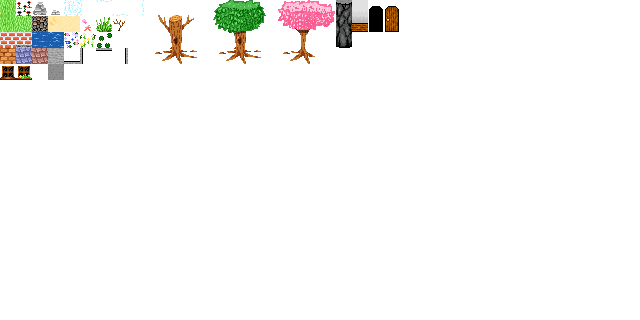
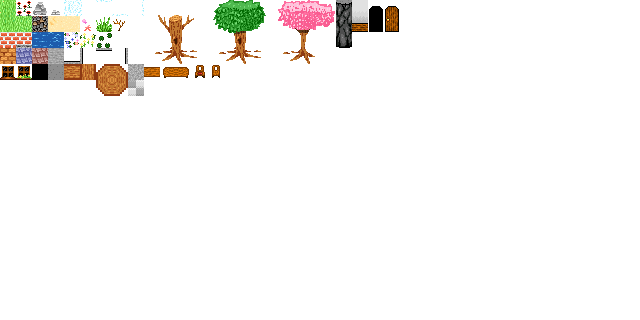
Added more sprites and a starting house. Still can't get the player in the map.

Changed region(s): [[0.0312, 0.1875, 0.3438, 0.3125]]

diff --git a/assets/maps/pokemon_tile.tsx b/assets/maps/pokemon_tile.tsx
@@ -1,16 +1,4 @@
 <?xml version="1.0" encoding="UTF-8"?>
 <tileset version="1.2" tiledversion="1.3.2" name="pokemon_tile" tilewidth="16" tileheight="16" tilecount="800" columns="40">
  <image source="../images/pokemon_tile.png" width="640" height="320"/>
- <tile id="82">
-  <animation>
-   <frame tileid="82" duration="500"/>
-   <frame tileid="83" duration="500"/>
-  </animation>
- </tile>
- <tile id="83">
-  <animation>
-   <frame tileid="83" duration="500"/>
-   <frame tileid="82" duration="500"/>
-  </animation>
- </tile>
 </tileset>

diff --git a/src/main.py b/src/main.py
@@ -1,5 +1,6 @@
 import sys
-import os as path
+import os
+import random
 # ---- #
 
 import pygame as pygame
@@ -13,7 +14,8 @@ import numpy as np
 
 from strings import *
 from tiledmap import *
-from player import *
+# from player import *
+from sprites import *
 # --- #
 #
 map_x=0
@@ -23,12 +25,15 @@ class Game:
 #
     def __init__(self):
         pygame.init()
+        pygame.mixer.init()
         size= [SCREEN_WIDTH, SCREEN_HEIGHT]
         self.screen= pygame.display.set_mode(size)
         self.screen.fill(BLACK)
         pygame.display.set_caption(GAME_NAME)
         self.clock= pygame.time.Clock()
+        self.running= True
         self.load_data()
+        self.all_sprites= pygame.sprite.Group()
         print("Initialised game.")
 
 
@@ -38,29 +43,26 @@ class Game:
         return temp_surface
 
     def load_data(self):
-        game_folder = path.dirname(__file__)
-        map_folder = path.join(game_folder, '../assets/maps')
-        self.map= TiledMap(path.join(map_folder, 'betamap.tmx'))
+        game_folder = os.path.dirname(__file__)
+        map_folder = os.path.join(game_folder, '../assets/maps')
+        self.map= TiledMap(os.path.join(map_folder, 'betamap.tmx'))
         self.height = self.map.height
         self.width = self.map.width
         self.map_img = self.map.make_map()
         self.map_rect = self.map_img.get_rect()
-        img_folder = path.join(game_folder, 'assets/images')
-        item_folder = path.join(game_folder, 'assets/items')
+        img_folder = os.path.join(game_folder, 'assets/images')
+        item_folder = os.path.join(game_folder, 'assets/items')
         print("Loading " + game_folder)
         print("Map folder: " + map_folder)
         print("Item folder: " +item_folder)
         print("Image folder: "+ img_folder)
 
-        # https://pytmx.readthedocs.io/en/latest/
-        # Help please god
-#        tmxdata= load_pygame(path.join(map_folder, 'betamap.tmx')
-#
     def new(self):
-        # pass
-        self.player= Player()
-        print("Player spawned.")
+        self.run()
 
+    def draw_player(self):
+        self.player= Player()
+        self.all_sprites.add(self.player)
 
     def run(self):
         print("Game is running...")
@@ -79,7 +81,7 @@ class Game:
                 self.quit()
             elif event.type== pygame.KEYDOWN:
                 # Key press event. Use this for pause later? Esc will also exit the game until we got a pause menu.
-                print("Detected key press.")
+                # print("Detected key press.")
                 if event.key == pygame.K_ESCAPE:
                     print("See ya!")
                     self.quit()
@@ -88,12 +90,15 @@ class Game:
         sys.exit()
 
     def update(self):
-        pass
+        self.all_sprites.update()
 
     def draw(self):
         size= [self.width,self.height]
         screen= pygame.display.set_mode(size)
         self.screen.blit(self.map_img, (0, 0))
+        # pygame.draw.circle(self.screen, WHITE, [30, 30], 30)
+        # Make a function to draw the player sprite here!!
+        self.draw_player()
         # Limit to 60 fps
         clock= pygame.time.Clock()
         clock.tick(FPS)
@@ -110,6 +115,9 @@ def main():
     pygame.display.set_caption(GAME_NAME)
     done= False
     game=Game()
+    size= [SCREEN_WIDTH, SCREEN_HEIGHT]
+    screen= pygame.display.set_mode(size)
+
     while not done:
         game.new()
         game.run()

diff --git a/src/player.py b/src/player.py
@@ -1,31 +1,31 @@
-import sys
-from os import path
-# ---- #
-
-import pygame as pygame
-from pygame.locals import *
-import pytmx
-import cv2
-import numpy as np
-
-# --- #
-
-from strings import *
-
-# --- #
-
-class Player(pygame.sprite.Sprite):
-    """
-    Spawn a player.
-    """
-
-    def __init__ (self, x=5, y=5):
-        pygame.sprite.Sprite.__init__(self)
-        self.images=[]
-        game_folder = path.dirname(__file__)[0:-3]
-        img= pygame.image.load(path.join(game_folder, 'assets/images/trainer_m.png'))
-        self.images.append(img)
-        self.image = self.images[0]
-        self.rect = self.image.get_rect()
-        self.x=0
-        self.y=0
+# import sys
+# from os import path
+# # ---- #
+#
+# import pygame as pygame
+# from pygame.locals import *
+# import pytmx
+# import cv2
+# import numpy as np
+#
+# # --- #
+#
+# from strings import *
+#
+# # --- #
+#
+# class Player(pygame.sprite.Sprite):
+#     """
+#     Spawn a player.
+#     """
+#
+#     def __init__ (self, x=5, y=5):
+#         pygame.sprite.Sprite.__init__(self)
+#         self.images=[]
+#         game_folder = path.dirname(__file__)[0:-3]
+#         img= pygame.image.load(path.join(game_folder, 'assets/images/trainer_m.png')).convert()
+#         self.images.append(img)
+#         self.image = self.images[0]
+#         self.rect = self.image.get_rect()
+#         self.x=5
+#         self.y=5

diff --git a/src/sprites.py b/src/sprites.py
@@ -1,0 +1,25 @@
+# Sprite classes
+
+import pygame as pygame
+
+from strings import *
+
+class Player(pygame.sprite.Sprite):
+    def __init__(self):
+        pygame.sprite.Sprite.__init__(self)
+        self.image= pygame.Surface((30,40))
+        self.image.fill(YELLOW)
+        self.rect= self.image.get_rect()
+        self.vx=0
+        self.vy=0
+
+    def update(self):
+        self.vx=0
+        keys= pygame.key.get_pressed()
+        if keys[pygame.K_LEFT]:
+            self.vx = -5
+        if keys[pygame.K_RIGHT]:
+            self.vx = 5
+
+        self.rect.x += self.vx
+        self.rect.y += self.vy
